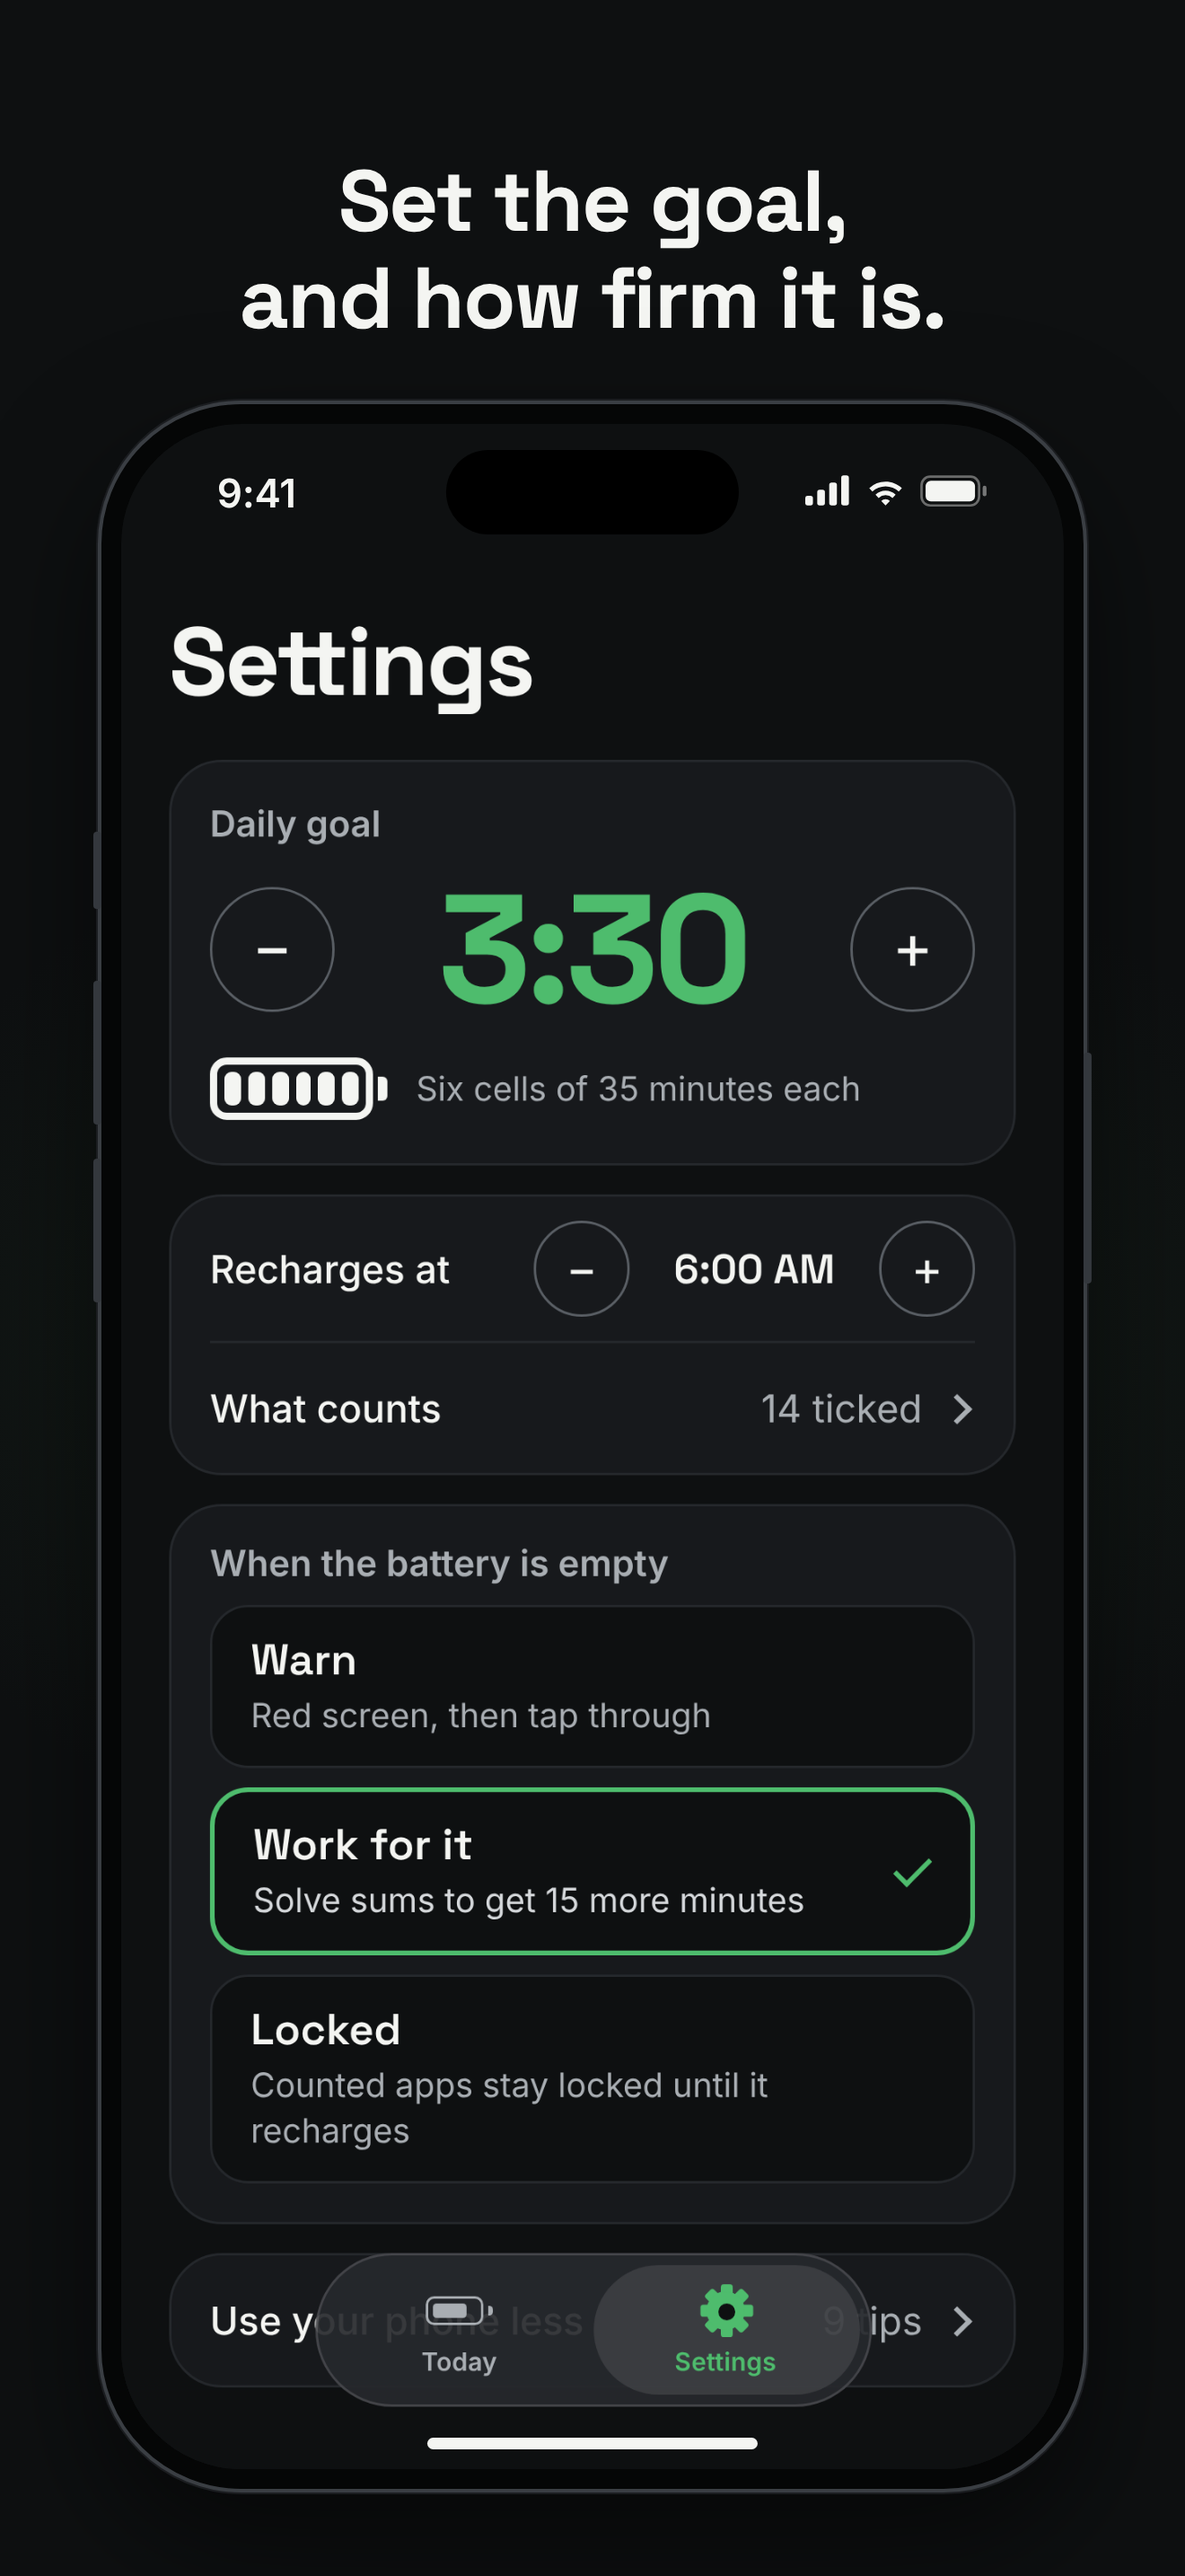
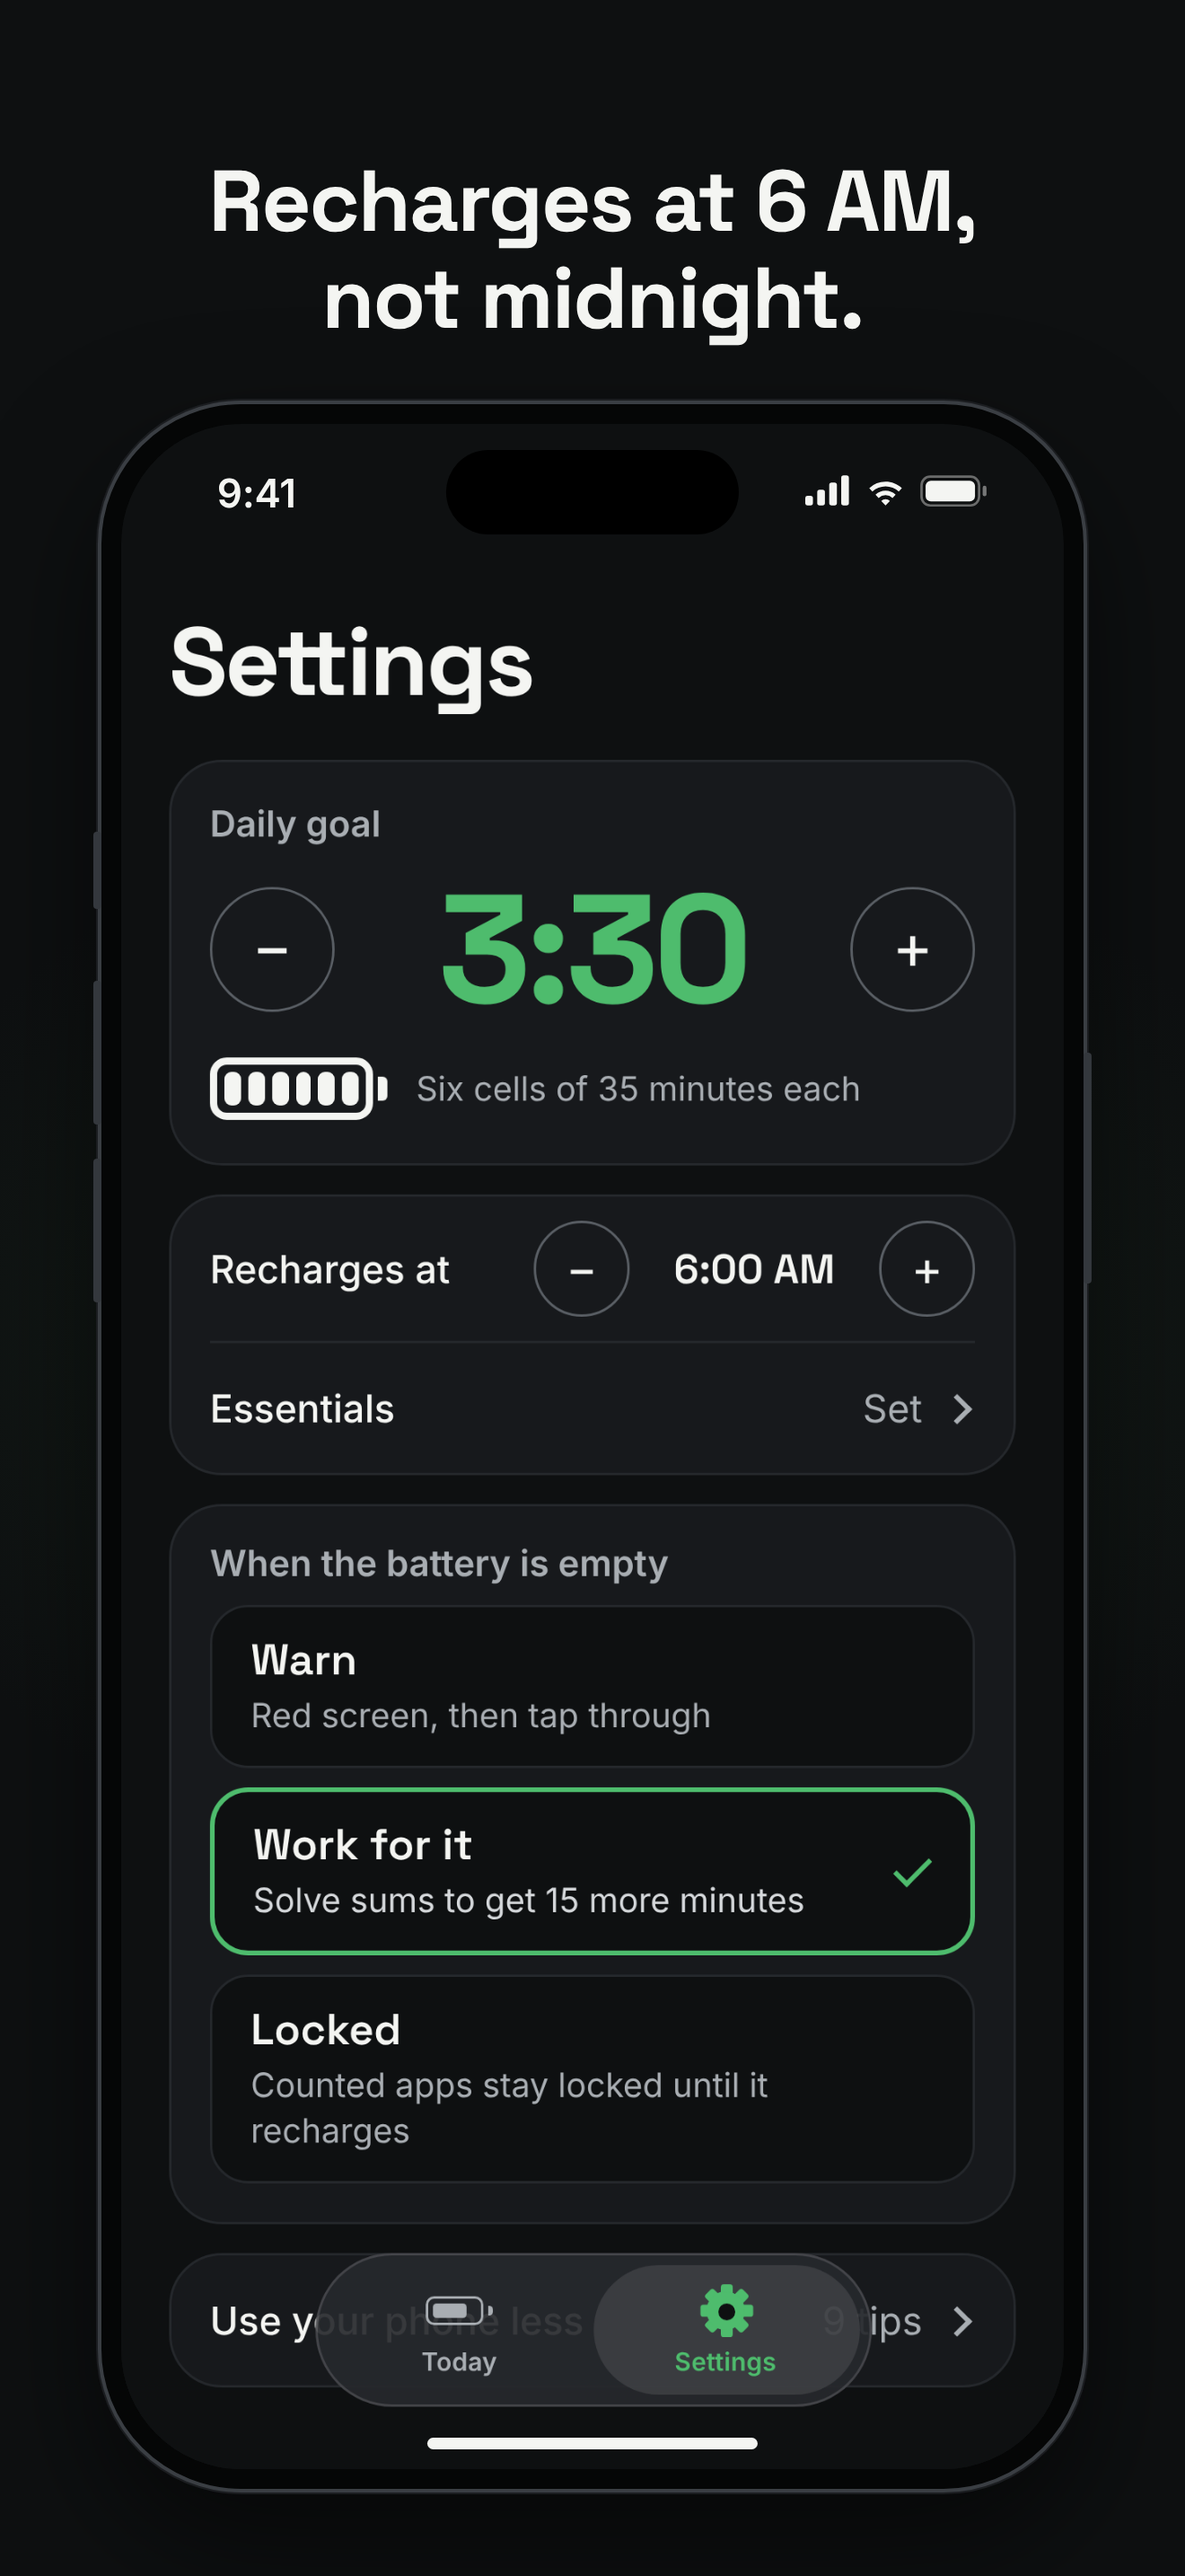
plainlimit 1.0.1: essentials are free, friction not walls
The owner's positioning: using the phone as a tool never costs battery,
and an empty battery is got through with sums, not a wall.
- "What counts" is now "Essentials" in the app (same picks, new words).
- 1.0.1 listing: subtitle "Your essentials never count", new promo text,
  description and captions (essentials, the scroll locks, sums, 6 AM).

Claude-Session: https://claude.ai/code/session_01P4SSbMQUsnKyhcfhzrtFQp

Changed region(s): [[0.1553, 0.0621, 0.8386, 0.1552], [0.1864, 0.5275, 0.3727, 0.5586], [0.6833, 0.5275, 0.7765, 0.5586]]

diff --git a/apps/plainlimit/src/ui/countWords.ts b/apps/plainlimit/src/ui/countWords.ts
@@ -1,20 +1,21 @@
-// How What counts is explained, on its own screen and in setup. There is one
-// list: what is ticked uses up the battery and locks when it is empty, and
-// what is left unticked does neither. The idea is to count the time wasters,
-// not what a phone is for (calls, messages, maps).
+// How Essentials is explained, on its own screen and in setup. There is one
+// list in Apple's picker: what is ticked uses up the battery and locks when it
+// is empty, and what is left unticked (the essentials) does neither. The idea:
+// using the phone as a tool (calls, messages, maps) never costs battery.
+// (The screen was called "What counts" until 1.0.1; the picks are the same.)
 
 export const COUNTS_LEAD =
-  'Count the time wasters, not what the phone is for. The apps you tick use up the battery and lock when it’s empty. Anything left unticked never counts and never locks.';
+  'Your essentials never count. Calls, messages, maps: use your phone as a tool without spending battery. Everything else you tick uses it up, and locks when it’s empty.';
 
 /** The steps, the first naming the button as it reads ("Choose apps", "Change the apps", "Pick again"). */
 export const countsSteps = (button: string) => [`Tap ${button}.`, ...COUNTS_STEPS.slice(1)];
 
 export const COUNTS_STEPS = [
   'Tap Choose apps.',
-  'Tap All Apps & Categories at the top, to count everything.',
+  'Tap All Apps & Categories at the top, so everything counts.',
   // Apple's list has no Navigation category: Maps is under Travel (seen in Screen Time on Nov 15, and Maps counted on Nov 16 with Travel ticked).
-  'Untick Travel, so Maps never counts.',
-  'Messages and FaceTime are in Social, with Instagram and Snapchat. To leave them out, untick Social, then open it and tick only the apps that should count.',
+  'Now untick your essentials. Untick Travel, so Maps is free.',
+  'Messages and FaceTime are in Social, with Instagram and Snapchat. To keep them free, untick Social, then open it and tick only the apps that should count.',
 ] as const;
 
 export const COUNTS_NOTE =
@@ -22,5 +23,5 @@ export const COUNTS_NOTE =
 
 export function pickedWords(picked: number): string {
   if (picked === 0) return 'Nothing is ticked yet, so nothing counts.';
-  return picked === 1 ? '1 app or category is ticked.' : `${picked} apps and categories are ticked.`;
+  return `${picked === 1 ? '1 app or category counts' : `${picked} apps and categories count`}. Everything left unticked is an essential, and free.`;
 }

diff --git a/apps/plainlimit/src/app/setup.tsx b/apps/plainlimit/src/app/setup.tsx
@@ -158,7 +158,7 @@ export default function Setup() {
   if (step === 'counts') {
     body = (
       <>
-        <Heading>What counts?</Heading>
+        <Heading>Your essentials</Heading>
         <Lead>{COUNTS_LEAD}</Lead>
         {canPick ? (
           <>
@@ -173,7 +173,7 @@ export default function Setup() {
             {picked > 0 ? <BigButton quiet label="Change the apps" onPress={() => setPicking(true)} /> : null}
           </>
         ) : SCREEN_TIME_AVAILABLE ? (
-          <Text style={styles.note}>You can tick apps once Screen Time is allowed, in Settings, under What counts.</Text>
+          <Text style={styles.note}>You can set them once Screen Time is allowed, in Settings, under Essentials.</Text>
         ) : (
           <Text style={styles.note}>On an iPhone you tick them in Apple&apos;s own list of your apps. This preview runs on pretend use.</Text>
         )}
@@ -283,14 +283,14 @@ export default function Setup() {
         <Card>
           <Row label="Daily goal" value={durationLabel(settings.goalMinutes)} />
           <Row label="Recharges at" value={clockLabel(settings.rechargeMinute)} />
-          <Row label="What counts" value={!SCREEN_TIME_AVAILABLE ? 'Your picks' : picked === 0 ? 'Nothing yet' : `${picked} ticked`} last />
+          <Row label="Essentials" value={!SCREEN_TIME_AVAILABLE ? 'Your picks' : picked === 0 ? 'Not set' : 'Set'} last />
         </Card>
         <Lead>
           {!SCREEN_TIME_AVAILABLE
             ? 'In this preview the battery runs on pretend use, from Settings.'
             : !approved
               ? 'Allow Screen Time in Settings when you are ready, and counting starts then.'
-              : 'Tick what counts in Settings, under What counts, and counting starts then.'}
+              : 'Set your essentials in Settings, under Essentials, and counting starts then.'}
         </Lead>
       </>
     );

diff --git a/apps/plainlimit/src/app/(tabs)/settings.tsx b/apps/plainlimit/src/app/(tabs)/settings.tsx
@@ -18,7 +18,7 @@ export default function Settings() {
   const { settings, day, accent } = useDay();
   const first = topUpPlan(0);
   const picked = SCREEN_TIME_AVAILABLE || MOCK_PHONE ? pickCount(COUNTED_ID) : -1;
-  const countedValue = picked < 0 ? 'Your picks' : picked === 0 ? 'Nothing yet' : `${picked} ticked`;
+  const countedValue = picked < 0 ? 'Your picks' : picked === 0 ? 'Not set' : 'Set';
   // Pretend use is for trying the app without real screen time; once that is on, it would only confuse.
   const pretend = DEV_TOOLS && !isOn();
   // On a narrow phone the goal's figures give the two round buttons room.
@@ -61,7 +61,7 @@ export default function Settings() {
             <StepButton sign="+" label="Recharge later" size={40} disabled={locked} onPress={() => store.stepRecharge(1)} />
           </View>
         </View>
-        <LinkRow label="What counts" value={countedValue} onPress={() => router.push('/what-counts')} last />
+        <LinkRow label="Essentials" value={countedValue} onPress={() => router.push('/what-counts')} last />
       </Card>
 
       <Card style={{ paddingTop: 14, paddingBottom: 16, gap: 8 }}>

diff --git a/apps/plainlimit/src/ui/CountingProblem.tsx b/apps/plainlimit/src/ui/CountingProblem.tsx
@@ -13,10 +13,10 @@ import { c } from './theme';
 // view marks those days instead.
 
 const COPY: Record<Exclude<Health, 'fine'>, { line: string; button: string; title?: string }> = {
-  nothingPicked: { line: 'Nothing is ticked in What counts, so nothing is counted or locked.', button: 'Choose apps' },
+  nothingPicked: { line: 'Your essentials aren’t set yet, so nothing is counted or locked.', button: 'Choose apps' },
   tooManyApps: {
     title: 'Not locking',
-    line: 'iOS locks at most 50 apps ticked one by one, and What counts lists more, so most of them won\'t lock. Pick again, ticking whole categories: those have no limit.',
+    line: 'iOS locks at most 50 apps ticked one by one, and more than that are ticked, so most of them won\'t lock. Pick again, ticking whole categories: those have no limit.',
     button: 'Pick again',
   },
   accessOff: {

diff --git a/apps/plainlimit/src/app/what-counts.tsx b/apps/plainlimit/src/app/what-counts.tsx
@@ -28,7 +28,7 @@ export default function WhatCounts() {
   const button = tooMany ? 'Pick again' : picked === 0 ? 'Choose apps' : 'Change the apps';
   return (
     <Page top={8}>
-      <Title>What counts</Title>
+      <Title>Essentials</Title>
       <Lead>{COUNTS_LEAD}</Lead>
       {SCREEN_TIME_AVAILABLE || MOCK_PHONE ? (
         <>
@@ -73,7 +73,7 @@ export default function WhatCounts() {
       <AppPicker
         id={COUNTED_ID}
         open={picking}
-        header="Tick what uses up your battery"
+        header="Tick everything, then untick your essentials"
         onClose={() => {
           setPicking(false);
           store.picksChanged();

diff --git a/apps/plainlimit/NOTES.md b/apps/plainlimit/NOTES.md
@@ -351,6 +351,13 @@ From the store screenshots' second review (verdict "almost") and the owner's pho
 - **Store screenshots** (for 1.0.1's listing; 1.0.0's are already with Apple): the web build's tab bar is a floating capsule with an icon over a small label for each tab, like the iPhone's, and the page runs on under it as it does on the phone (so nothing is cut at a hard edge); the empty-battery shot is in "Work for it" and shows "Solve 3 sums for 15 more minutes"; the order is battery, empty, sums, settings, so the button pays off in the next picture; the green dash over each caption is gone. Also: the goal pill reads "3 h 30 min day" in normal case, a little more room under the headline, the countdown easier to read on the empty red, and the sums screen says "Adds 15 minutes now; your battery still refills at 6:00 AM." Two design reviews (both "almost") were applied; what they raised and was left is listed below.
 - Left for later, from the reviews: Settings as one grouped list with a time picker instead of − and +; one way of writing durations everywhere; the green card running up behind the clock; curly apostrophes; "14 ticked" wording; the sums screen's "Never mind" as a button and the number pad in its screenshot; one red for the empty screen; showing a locked app in the empty screenshot; a mark on the week for a day with earned time; the battery's offset shadow. Not taken: green cells on a dark card (the solid dark cells on the day's colour are the app's look, and read the way the phone's own battery icon does in light mode).
 
+## Positioning from 1.0.1 (the owner, 2026-11-17)
+
+The owner set what the app is about. Core: **your essentials are free** (using the phone as a tool, calls, messages, maps, never costs battery or locks), and **friction, not walls** (an empty battery is got through with sums: 3 for 15 minutes, then 5 for 10, then 7 for 5). Features: the recharge at 6 AM (or a chosen time) instead of midnight, so there is no fresh battery for a late-night scroll; settings locked while the battery is empty (emergency access still to be decided with the owner); and, optional, the one-sum list for reflex apps, named **Second thought** by the owner (built as "Ask first" on its branch).
+
+- The owner named the free apps **Essentials**. In the app, "What counts" is now **Essentials** (Settings row, its screen, setup's step, the counting problems): the same single list in Apple's picker (tick everything, then untick your essentials), only the words changed. The Settings row reads "Set" or "Not set" instead of a count of ticked items, since the count was of what counts, not of the essentials.
+- 1.0.1's listing: subtitle "Your essentials never count" (was "A daily battery for your apps"); promotional text and description lead with essentials and the sums; captions "Calls, texts and maps never count." / "When it runs out, the scroll locks." / "Need a little more? Earn it with sums." / "Recharges at 6 AM, not midnight." 1.0.0's listing, in review, is unchanged; `tools/asc_listing.py` is not run against it.
+
 ## Ideas for later versions (not built)
 
 - **"Ask first" apps (owner's idea, 2026-11-16).** Opening Instagram or TikTok is often a reflex on picking up the phone. A second, optional list in Settings (not in first-run setup): those apps always show a covering screen asking for one sum before they open, whatever the battery says. After the sum they stay open for a set time (10 to 15 minutes; iOS cannot tell when an app is closed), then ask again. The same sums and the same timed re-lock as earned time, so it fits the app's one idea, a little friction to be intentional. Limits: iOS gives the covering screen's button no way to open Plainlimit straight away, so the path is the app, the cover, the notification, one sum, and back to the app by hand (Plainlimit is only given Apple's codes, not which app was tapped, so it cannot send the owner back). An empty battery takes over from it. Apps on this list should be few, well under iOS's 50 single apps. A good first Pro feature (free stays the full daily battery). Medium effort: a second picker, a cover and button text for it, the timed re-lock, Settings, tests, then a real-phone check.
